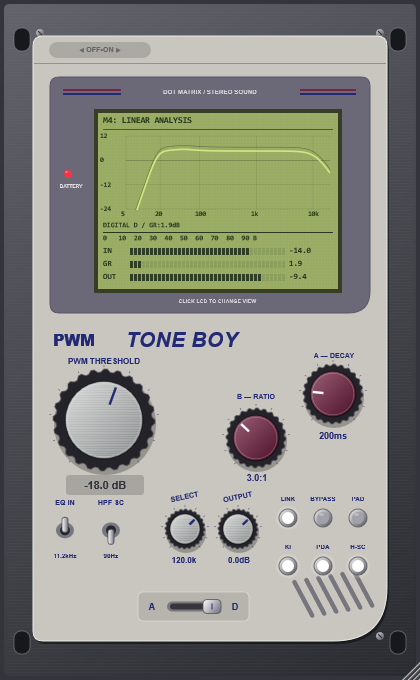
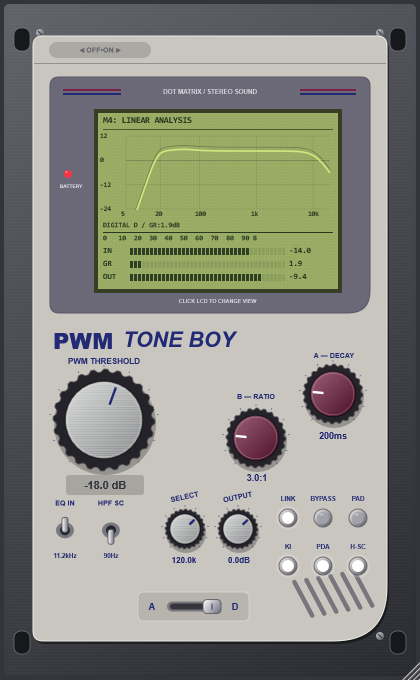
Keep knob interaction responsive with background analysis and cached artwork

diff --git a/Source/PluginEditor.cpp b/Source/PluginEditor.cpp
@@ -64,6 +64,23 @@ void PWMToneBoyAudioProcessorEditor::resized()
 void PWMToneBoyAudioProcessorEditor::paintPanel(juce::Graphics& g)
 {
     using L=ToneBoyLookAndFeel;
+    if(skin.isNull())
+    {
+        skin=juce::Image(juce::Image::ARGB,840,1360,true);
+        juce::Graphics artwork(skin); artwork.addTransform(juce::AffineTransform::scale(2.0f));
+        paintStaticPanel(artwork);
+    }
+    g.drawImage(skin,0,0,420,680,0,0,840,1360);
+    g.setColour(juce::Colour(p.parameter("bypass")>0.5f?0xff54323a:0xfffa3445)); g.fillEllipse(64,170,8,8);
+    if(p.parameter("bypass")<0.5f) { g.setColour(juce::Colour(0xfffa7482)); g.fillEllipse(65,171,3,2); }
+    L::text(g,juce::String(p.parameter("threshold"),1)+" dB",{66,475,78,20},12,juce::Colour(0xff30323c));
+    const auto* rp=p.apvts.getParameter("ratioIndex"); const auto* dp=p.apvts.getParameter("decayIndex");
+    L::text(g,rp->getCurrentValueAsText(),{223,470,68,15},10); L::text(g,dp->getCurrentValueAsText(),{299,428,68,15},10);
+    L::text(g,juce::String(p.parameter("clockRate"),1)+"k",{153,554,62,13},9); L::text(g,juce::String(p.parameter("outputGain"),1)+"dB",{213,554,52,13},9);
+}
+void PWMToneBoyAudioProcessorEditor::paintStaticPanel(juce::Graphics& g)
+{
+    using L=ToneBoyLookAndFeel;
     g.fillAll(juce::Colour(0xff34353c));
     g.setGradientFill(juce::ColourGradient(juce::Colour(0xff62636b),0,0,juce::Colour(0xff292b30),420,680,false)); g.fillRoundedRectangle(4,4,412,672,5);
     for(int y=9;y<675;y+=3) { g.setColour(juce::Colours::white.withAlpha(0.018f)); g.drawHorizontalLine(y,7,413); }
@@ -83,28 +100,30 @@ void PWMToneBoyAudioProcessorEditor::paintPanel(juce::Graphics& g)
     for(int i=0;i<2;++i) { g.setColour(i==0?juce::Colour(0xff7a2148):L::navy()); g.fillRect(63,89+i*4,58,2); g.fillRect(300,89+i*4,56,2); }
     L::text(g,"DOT MATRIX / STEREO SOUND",{124,85,172,14},7,juce::Colour(0xffd6d2d8));
     g.setColour(juce::Colour(0xff383e26)); g.fillRect(94,109,248,184);
-    g.setColour(juce::Colour(p.parameter("bypass")>0.5f?0xff54323a:0xfffa3445)); g.fillEllipse(64,170,8,8);
-    if(p.parameter("bypass")<0.5f) { g.setColour(juce::Colour(0xfffa7482)); g.fillEllipse(65,171,3,2); }
     L::text(g,"BATTERY",{54,182,34,9},5.5f,juce::Colour(0xffe3dee4));
     L::text(g,"CLICK LCD TO CHANGE VIEW",{110,296,215,10},6,juce::Colour(0xffd6d2d8));
-    g.setColour(L::navy()); g.setFont(juce::Font(juce::FontOptions("Arial Black",22,juce::Font::bold))); g.drawText("PWM",53,326,72,27,juce::Justification::centredLeft);
-    g.setFont(juce::Font(juce::FontOptions("Arial",24,juce::Font::bold|juce::Font::italic))); g.drawText("TONE BOY",126,326,190,27,juce::Justification::centredLeft);
+    g.setColour(L::navy()); g.setFont(juce::Font(juce::FontOptions("Arial Black",32,juce::Font::bold))); g.drawText("PWM",53,323,90,34,juce::Justification::centredLeft);
+    g.setFont(juce::Font(juce::FontOptions("Arial",24,juce::Font::bold|juce::Font::italic))); g.drawText("TONE BOY",123,326,190,27,juce::Justification::centredLeft);
     L::text(g,"PWM THRESHOLD",{44,355,120,12},9);
-    g.setColour(juce::Colour(0xffa6a59f)); g.fillRoundedRectangle(66,475,78,20,3); L::text(g,juce::String(p.parameter("threshold"),1)+" dB",{66,475,78,20},12,juce::Colour(0xff30323c));
+    g.setColour(juce::Colour(0xffa6a59f)); g.fillRoundedRectangle(66,475,78,20,3);
     L::text(g,juce::String::fromUTF8("A — DECAY"),{294,350,80,11},8); L::text(g,juce::String::fromUTF8("B — RATIO"),{216,391,80,11},8);
-    const auto* rp=p.apvts.getParameter("ratioIndex"); const auto* dp=p.apvts.getParameter("decayIndex");
-    L::text(g,rp->getCurrentValueAsText(),{223,470,68,15},10); L::text(g,dp->getCurrentValueAsText(),{299,428,68,15},10);
     L::text(g,"EQ IN",{43,497,44,12},8); L::text(g,"HPF SC",{89,497,44,12},8);
     L::text(g,"11.2kHz",{42,551,46,10},7); L::text(g,"90Hz",{89,551,44,10},7);
     g.saveState(); g.addTransform(juce::AffineTransform::rotation(-0.20944f,184,499)); L::text(g,"SELECT",{160,491,50,12},8); g.restoreState();
     g.saveState(); g.addTransform(juce::AffineTransform::rotation(-0.20944f,238,499)); L::text(g,"OUTPUT",{214,491,48,12},8); g.restoreState();
-    L::text(g,juce::String(p.parameter("clockRate"),1)+"k",{153,554,62,13},9); L::text(g,juce::String(p.parameter("outputGain"),1)+"dB",{213,554,52,13},9);
+
     const juce::String names[]{"LINK","BYPASS","PAD","KI","PDA","H-SC"};
     for(int i=0;i<6;++i) L::text(g,names[i],{float(270+(i%3)*35),float(i<3?493:541),36,12},7);
     g.setColour(juce::Colour(0xffb6b4ad)); g.fillRoundedRectangle(138,592,111,29,5); g.setColour(juce::Colour(0xffdfddd6)); g.drawRoundedRectangle(138,592,111,29,5,0.7f);
     for(int i=0;i<6;++i) { juce::Path slot; slot.addRoundedRectangle(0,0,5,43,2.5f); const auto t=juce::AffineTransform::rotation(-0.488692f).translated(float(291+i*12),581.0f-float(i)*2); g.setColour(juce::Colour(0xff77767c)); g.fillPath(slot,t); g.setColour(juce::Colour(0xffeceae2).withAlpha(0.5f)); g.strokePath(slot,juce::PathStrokeType(0.6f),t); }
 }
-void PWMToneBoyAudioProcessorEditor::timerCallback() { panel.repaint(); }
+void PWMToneBoyAudioProcessorEditor::timerCallback()
+{
+    // Controls and LCD repaint themselves. Only invalidate changed numeric readouts.
+    const std::array<const char*,6> ids{"threshold","ratioIndex","decayIndex","clockRate","outputGain","bypass"};
+    const std::array<juce::Rectangle<int>,6> areas{{{66,475,78,20},{223,470,68,15},{299,428,68,15},{153,554,62,13},{213,554,52,13},{63,169,11,11}}};
+    for(size_t i=0;i<ids.size();++i) { const auto value=p.parameter(ids[i]); if(value!=lastReadouts[i]) { lastReadouts[i]=value; panel.repaint(areas[i]); } }
+}
 void PWMToneBoyAudioProcessorEditor::chooseFile()
 {
     chooser=std::make_unique<juce::FileChooser>("Load WAV or AIFF",juce::File{},"*.wav;*.aiff;*.aif");

diff --git a/Source/DotMatrixLCDComponent.h b/Source/DotMatrixLCDComponent.h
@@ -2,6 +2,7 @@
 #include "PluginProcessor.h"
 #include "ToneBoyLookAndFeel.h"
 #include "AnalysisModels.h"
+#include "HarmonicAnalysisWorker.h"
 
 class DotMatrixLCDComponent final : public juce::Component, private juce::Timer
 {
@@ -9,12 +10,12 @@ public:
     explicit DotMatrixLCDComponent(PWMToneBoyAudioProcessor& processor):p(processor),fft(10),detailedFft(13)
     {
         setTitle("LCD diagnostics"); setDescription("Click to cycle six views, including linear and harmonic analysis");
-        setMouseCursor(juce::MouseCursor::PointingHandCursor); startTimerHz(60);
+        setMouseCursor(juce::MouseCursor::PointingHandCursor); startTimerHz(30);
     }
     void mouseDown(const juce::MouseEvent&) override { advanceView(); }
     void advanceView() { mode=(mode+1)%6; repaint(); }
     int getMode() const { return mode; }
-    void refreshDiagnostics() { timerCallback(); }
+    void refreshDiagnostics() { diagnosticRefresh=true; timerCallback(); diagnosticRefresh=false; }
     const ToneBoyHarmonicResult& getHarmonicResult() const { return harmonic; }
     float getSpectrumPeakDb() const { return *std::max_element(spectralOutput.begin(),spectralOutput.end()); }
     int getObservedBandCount() const { return int(std::count_if(observedConfidence.begin(),observedConfidence.end(),[](float value){return value>0.1f;})); }
@@ -23,7 +24,12 @@ public:
         g.saveState(); g.addTransform(juce::AffineTransform::scale(float(getWidth())/240,float(getHeight())/176));
         const auto ink=juce::Colour(0xff27381f),light=juce::Colour(0xffd3e680);
         g.fillAll(juce::Colour(0xff9cae66));
-        for(int x=2;x<240;x+=3) for(int y=2;y<176;y+=3) { g.setColour(ink.withAlpha(0.035f)); g.fillRect(x,y,2,2); }
+        if(dotTexture.isNull())
+        {
+            dotTexture=juce::Image(juce::Image::ARGB,480,352,true); juce::Graphics dots(dotTexture); dots.addTransform(juce::AffineTransform::scale(2.0f)); dots.setColour(ink.withAlpha(0.035f));
+            for(int x=2;x<240;x+=3) for(int y=2;y<176;y+=3) dots.fillRect(x,y,2,2);
+        }
+        g.drawImage(dotTexture,0,0,240,176,0,0,480,352);
         const juce::String titles[]{"M0: FFT SPECTRUM","M1: KI TRIODE+18Hz","M2: STC-8M KNEE+PDR","M3: 4BIT DAC+PWM","M4: LINEAR ANALYSIS","M5: HARMONIC ANALYSIS"};
         label(g,titles[mode],5,3,230,10,8.5f); g.setColour(ink.withAlpha(0.7f)); g.drawHorizontalLine(16,5,235);
         if(mode==0)
@@ -166,7 +172,7 @@ private:
         const bool analog=p.parameter("analogMode")>0.5f,bypassed=p.parameter("bypass")>0.5f;
         if(rate!=harmonicRate || overruns!=lastOverruns || analog!=lastAnalog || bypassed!=lastBypass)
         {
-            harmonicWrite=0; harmonic={}; harmonicRate=rate; lastOverruns=overruns;
+            ++analysisEpoch; harmonicWrite=0; harmonic={}; harmonicRate=rate; lastOverruns=overruns;
             transfer.clear(); observedConfidence.fill(0); observedGain.fill(0); lastAnalog=analog; lastBypass=bypassed;
         }
         for(int i=0;i<count;++i)
@@ -181,7 +187,9 @@ private:
                 const auto now=juce::Time::getMillisecondCounterHiRes();
                 if(now-lastAnalysisMs>=150)
                 {
-                    harmonic=ToneBoyHarmonicAnalysis::analyse(harmonicInput,harmonicOutput,rate); lastAnalysisMs=now;
+                    const bool submitted=harmonicWorker.submit(harmonicInput,harmonicOutput,rate,analysisEpoch);
+                    if(diagnosticRefresh && submitted) harmonicWorker.waitForDiagnostic();
+                    lastAnalysisMs=now;
                     detailedInput.fill(0); detailedOutput.fill(0);
                     for(size_t j=0;j<8192;++j) { const auto window=0.5f-0.5f*std::cos(juce::MathConstants<float>::twoPi*float(j)/8191); detailedInput[j]=harmonicInput[j]*window; detailedOutput[j]=harmonicOutput[j]*window; }
                     detailedFft.performRealOnlyForwardTransform(detailedInput.data()); detailedFft.performRealOnlyForwardTransform(detailedOutput.data());
@@ -197,6 +205,7 @@ private:
                 for(int bar=0;bar<48;++bar) { const auto hz=30*std::pow(20000.0/30,double(bar)/47); const int bin=juce::jlimit(1,511,int(hz*1024/rate)); spectrum[size_t(bar)]=juce::Decibels::gainToDecibels(fftData[size_t(bin)]/256,-90.0f); }
             }
         }
+        harmonicWorker.take(harmonic,analysisEpoch);
         if(count==0) for(auto& v:spectrum) v=juce::jmax(-90.0f,v-1.5f);
         if(count==0) { for(auto& v:spectralOutput) v=juce::jmax(-120.0f,v-2); for(auto& v:spectralInput) v=juce::jmax(-120.0f,v-2); }
         if(count>0) lastSignalMs=juce::Time::getMillisecondCounterHiRes();
@@ -213,6 +222,10 @@ private:
         grHistory[size_t(grWrite)]=p.reductionDb.load(); grWrite=(grWrite+1)%120;
         repaint();
     }
+    juce::Image dotTexture;
+    ToneBoyHarmonicWorker harmonicWorker;
+    uint64_t analysisEpoch{};
+    bool diagnosticRefresh{};
     PWMToneBoyAudioProcessor& p;
     juce::dsp::FFT fft;
     std::array<float,2048> fftData{};

diff --git a/Tests/ProcessorChecks.cpp b/Tests/ProcessorChecks.cpp
@@ -261,6 +261,14 @@ int main(int argc,char** argv)
     check(std::abs(analysis.thdDb+59.9568)<1,"harmonic THD matches known synthetic reference");
     std::cout<<"Harmonic reference f0="<<analysis.frequency<<" THD="<<analysis.thdDb<<" THD+N="<<analysis.thdnDb<<"\n";
     check(std::abs(analysis.thdnDb-analysis.thdDb)<1,"noise-free THD+N agrees with known harmonic distortion");
+    {
+        auto worker=std::make_unique<ToneBoyHarmonicWorker>(); ToneBoyHarmonicResult asynchronous;
+        check(worker->submit(*testInput,*testOutput,48000,1),"harmonic worker accepts frame without waiting for analysis");
+        worker->waitForDiagnostic(); check(worker->take(asynchronous,1),"harmonic worker publishes completed frame");
+        check(asynchronous.status==analysis.status && std::abs(asynchronous.thdDb-analysis.thdDb)<1e-9 && std::abs(asynchronous.frequency-analysis.frequency)<1e-9,"worker matches harmonic reference without changing analysis maths");
+        check(worker->submit(*testInput,*testOutput,48000,2),"harmonic worker accepts subsequent frame"); worker->waitForDiagnostic();
+        check(!worker->take(asynchronous,3),"stale harmonic frame rejected after rate or mode reset");
+    }
     for(int n=0;n<8192;++n) (*testOutput)[size_t(n)]+=float(0.001*std::sin(tau*6000*n/48000));
     analysis=ToneBoyHarmonicAnalysis::analyse(*testInput,*testOutput,48000);
     check(analysis.thdnDb>analysis.thdDb+8,"THD+N includes nonharmonic residual energy");
@@ -364,6 +372,19 @@ int main(int argc,char** argv)
         check(hit!=nullptr && hit->getName()=="PWM Threshold","scaled threshold hit target matches drawing");
         auto image=editor->createComponentSnapshot(editor->getLocalBounds()); check(image.isValid(),"resized editor snapshot");
         if(argc>1) { juce::File out=juce::File::getCurrentWorkingDirectory().getChildFile(argv[1]).getChildFile("UI-"+juce::String(w)+".png"); out.getParentDirectory().createDirectory(); juce::FileOutputStream stream(out); stream.setPosition(0); stream.truncate(); juce::PNGImageFormat png; png.writeImageToStream(image,stream); }
+    }
+    {
+        editor->setSize(420,680); std::array<double,20> durations{};
+        for(size_t frame=0;frame<durations.size();++frame)
+        {
+            set(restored,"threshold",-30+float(frame));
+            const auto start=juce::Time::getMillisecondCounterHiRes(); auto snapshot=editor->createComponentSnapshot(editor->getLocalBounds());
+            durations[frame]=juce::Time::getMillisecondCounterHiRes()-start;
+            check(snapshot.isValid(),"cached skin redraw supports continuously changing controls");
+        }
+        std::sort(durations.begin(),durations.end());
+        std::cout<<"UI full snapshot at 420px median="<<durations[10]<<" ms max="<<durations.back()<<" ms (offline, not host input latency)\n";
+        set(restored,"threshold",-18);
     }
     std::function<DotMatrixLCDComponent*(juce::Component*)> findLcd=[&](juce::Component* component)->DotMatrixLCDComponent* { if(auto* screen=dynamic_cast<DotMatrixLCDComponent*>(component)) return screen; for(auto* child:component->getChildren()) if(auto* screen=findLcd(child)) return screen; return nullptr; };
     auto* screen=findLcd(editor.get()); check(screen!=nullptr,"editor contains its diagnostic LCD");

diff --git a/Source/HarmonicAnalysisWorker.h b/Source/HarmonicAnalysisWorker.h
@@ -1,0 +1,43 @@
+#pragma once
+#include "AnalysisModels.h"
+
+// Editor-owned worker. Neither the audio callback nor mouse handling waits for analysis.
+class ToneBoyHarmonicWorker final : private juce::Thread
+{
+public:
+    ToneBoyHarmonicWorker():juce::Thread("Tone Boy harmonic analysis") { startThread(juce::Thread::Priority::low); }
+    ~ToneBoyHarmonicWorker() override { signalThreadShouldExit(); wake.signal(); stopThread(-1); }
+    bool submit(const std::array<float,8192>& in,const std::array<float,8192>& out,double sampleRate,uint64_t epoch)
+    {
+        const juce::ScopedTryLock guard(lock);
+        if(!guard.isLocked() || busy) return false;
+        input=in; output=out; rate=sampleRate; jobEpoch=epoch; busy=true; wake.signal(); return true;
+    }
+    bool take(ToneBoyHarmonicResult& result,uint64_t epoch)
+    {
+        const juce::ScopedTryLock guard(lock);
+        if(!guard.isLocked() || !ready) return false;
+        ready=false;
+        if(resultEpoch!=epoch) return false;
+        result=completed; return true;
+    }
+    void waitForDiagnostic() { done.wait(5000); } // Offline checks only.
+private:
+    void run() override
+    {
+        while(!threadShouldExit())
+        {
+            wake.wait(); if(threadShouldExit()) break;
+            // Busy prevents the submitter from modifying the input until completion.
+            const auto result=ToneBoyHarmonicAnalysis::analyse(input,output,rate);
+            { const juce::ScopedLock guard(lock); completed=result; resultEpoch=jobEpoch; ready=true; busy=false; }
+            done.signal();
+        }
+    }
+    juce::CriticalSection lock;
+    juce::WaitableEvent wake,done;
+    std::array<float,8192> input{},output{};
+    double rate{}; uint64_t jobEpoch{},resultEpoch{};
+    bool busy{},ready{};
+    ToneBoyHarmonicResult completed;
+};

diff --git a/Source/PluginEditor.h b/Source/PluginEditor.h
@@ -19,6 +19,9 @@ private:
     private: PWMToneBoyAudioProcessorEditor& editor;
     };
     void paintPanel(juce::Graphics&);
+    void paintStaticPanel(juce::Graphics&);
+    juce::Image skin;
+    std::array<float,6> lastReadouts{-999,-999,-999,-999,-999,-999};
     void timerCallback() override;
     void chooseFile();
     void setupKnob(juce::Slider&,const char*,bool,juce::Rectangle<int>,const juce::String&);

diff --git a/docs/GUIA-ES.md b/docs/GUIA-ES.md
@@ -1,4 +1,4 @@
-# Guía de uso — PWM TONE BOY v1.5.0
+# Guía de uso — PWM TONE BOY v1.5.1
 
 **Creado por PAPIELGUAPO · Windows x64 · VST3 + Standalone**
 
@@ -12,7 +12,7 @@ Es un diseño original inspirado en comportamientos del STC-8. No se ha calibrad
 
 ## Descargar e instalar
 
-1. Descarga **PWM-TONE-BOY-Windows-x64.zip** en la [release v1.5.0](https://github.com/papielguapo/PWMToneBoy/releases/tag/v1.5.0).
+1. Descarga **PWM-TONE-BOY-Windows-x64.zip** en la [release v1.5.1](https://github.com/papielguapo/PWMToneBoy/releases/tag/v1.5.1).
 2. Descomprime el ZIP. Copia la carpeta completa `VST3/PWM TONE BOY.vst3` a `C:\Program Files\Common Files\VST3`. Cierra los programas que estén usando el plugin antes de sustituirlo. Windows puede solicitar permisos de administrador.
 3. Vuelve a escanear los plugins en tu DAW y carga **PWM TONE BOY**, fabricante **PAPIELGUAPO**.
 4. Para usarlo sin DAW, abre `Standalone/PWM TONE BOY.exe`.
@@ -212,3 +212,13 @@ El código del motor de audio se conserva respecto a v1.2.1. Se comprueban todas
 | UP 1.4:1 | 0.01 | +4.779 dB |
 
 Se comprobaron el lado correcto del umbral, la ganancia máxima estática, silencio exacto desde reposo, audio finito al cambiar modos y guardado/restauración de cada posición. En el LCD, G+ indica realce; GR indica reducción. El historial representa la magnitud de la acción dinámica.
+
+## Fluidez de la interfaz (v1.5.1)
+
+El ajuste armónico de las ventanas de 8192 muestras se ejecuta en un hilo de fondo perteneciente al editor. La interfaz entrega y recoge resultados sin esperar al cálculo; al cerrar el editor se termina ese hilo. Los resultados anteriores a un cambio de frecuencia de muestreo o A/D se descartan.
+
+El dibujo fijo de la skin y la textura de puntos se guardan en imágenes a doble resolución lógica. El panel ya no se repinta entero periódicamente; los controles se repintan a sí mismos y solo se invalidan las lecturas que cambian. La LCD se refresca a 30 Hz. El sonido, el suavizado de parámetros, la latencia de audio y las posiciones de RATIO no cambian respecto a v1.5.0.
+
+PWM pasa de 22 a 32 puntos y se acerca visualmente a TONE BOY. Se mantiene el resto del diseño. Estas optimizaciones reducen trabajo en el hilo que atiende el ratón; la fluidez final también depende de la carga del host y del sistema.
+
+Validación v1.5.1: 4.688 aserciones sin fallos. Se comparó el resultado del analizador en segundo plano con la referencia síncrona y se comprobó el descarte de resultados antiguos; además se renderizaron seis vistas y cuatro tamaños de editor. Las mediciones de audio anteriores permanecen iguales. El tiempo de captura de la interfaz se registra en QA/regression.txt: es una medición offline, no una medida de latencia del ratón en FL Studio.

diff --git a/README.md b/README.md
@@ -1,12 +1,14 @@
 # PWM TONE BOY — PAPIELGUAPO
 
-**v1.5.0 · EXP y UP en RATIO para dinámica ascendente y buses paralelos.**
+**v1.5.1 · Interfaz optimizada y título PWM más grande y unido a TONE BOY.**
+
+El cálculo armónico se ejecuta en un hilo del editor; la skin y la textura LCD usan caché. Se eliminan los repintados completos periódicos y los valores se invalidan al cambiar. No cambia el motor DSP respecto a v1.5.0.
 
 Nuevas posiciones: **EXP 1:1.3 / 1:1.4** realzan por encima del umbral; **UP 1.3:1 / 1.4:1** elevan por debajo. Rodilla de 6 dB, realce máximo +12 dB y sin Auto-Gain fijo en esos modos. Las posiciones tradicionales, A y D se conservan. Revisa automatizaciones antiguas de RATIO: su escala normalizada pasa de 7 a 11 opciones.
 
 ![PWM TONE BOY](docs/images/PWM-TONE-BOY.png)
 
-- **[Descargar VST3 + Standalone — Windows x64](https://github.com/papielguapo/PWMToneBoy/releases/download/v1.5.0/PWM-TONE-BOY-Windows-x64.zip)**
+- **[Descargar VST3 + Standalone — Windows x64](https://github.com/papielguapo/PWMToneBoy/releases/download/v1.5.1/PWM-TONE-BOY-Windows-x64.zip)**
 - **[Guía completa en español](docs/GUIA-ES.md)**
 - **[Auditoría anterior v1.4.0: hallazgos, correcciones, medidas y límites](docs/AUDITORIA-v1.4.0.md)**
 
@@ -28,7 +30,7 @@ La auditoría corrige además muestras NaN/Inf antes del oversampling, metadatos
 
 ## Comprobado
 
-**4.658 aserciones sin fallos y pluginval nivel 10 superado.** Medidas sin editor, 48 kHz, seno 0.2 pico, ratio 1:1, umbral 0 dB, KI OFF, dos segundos de asentamiento y cuatro medidos:
+**4.688 aserciones sin fallos y pluginval nivel 10 superado.** Medidas sin editor, 48 kHz, seno 0.2 pico, ratio 1:1, umbral 0 dB, KI OFF, dos segundos de asentamiento y cuatro medidos:
 
 | Frecuencia | Variación pico a pico de A | Variación de D |
 |---|---:|---:|
